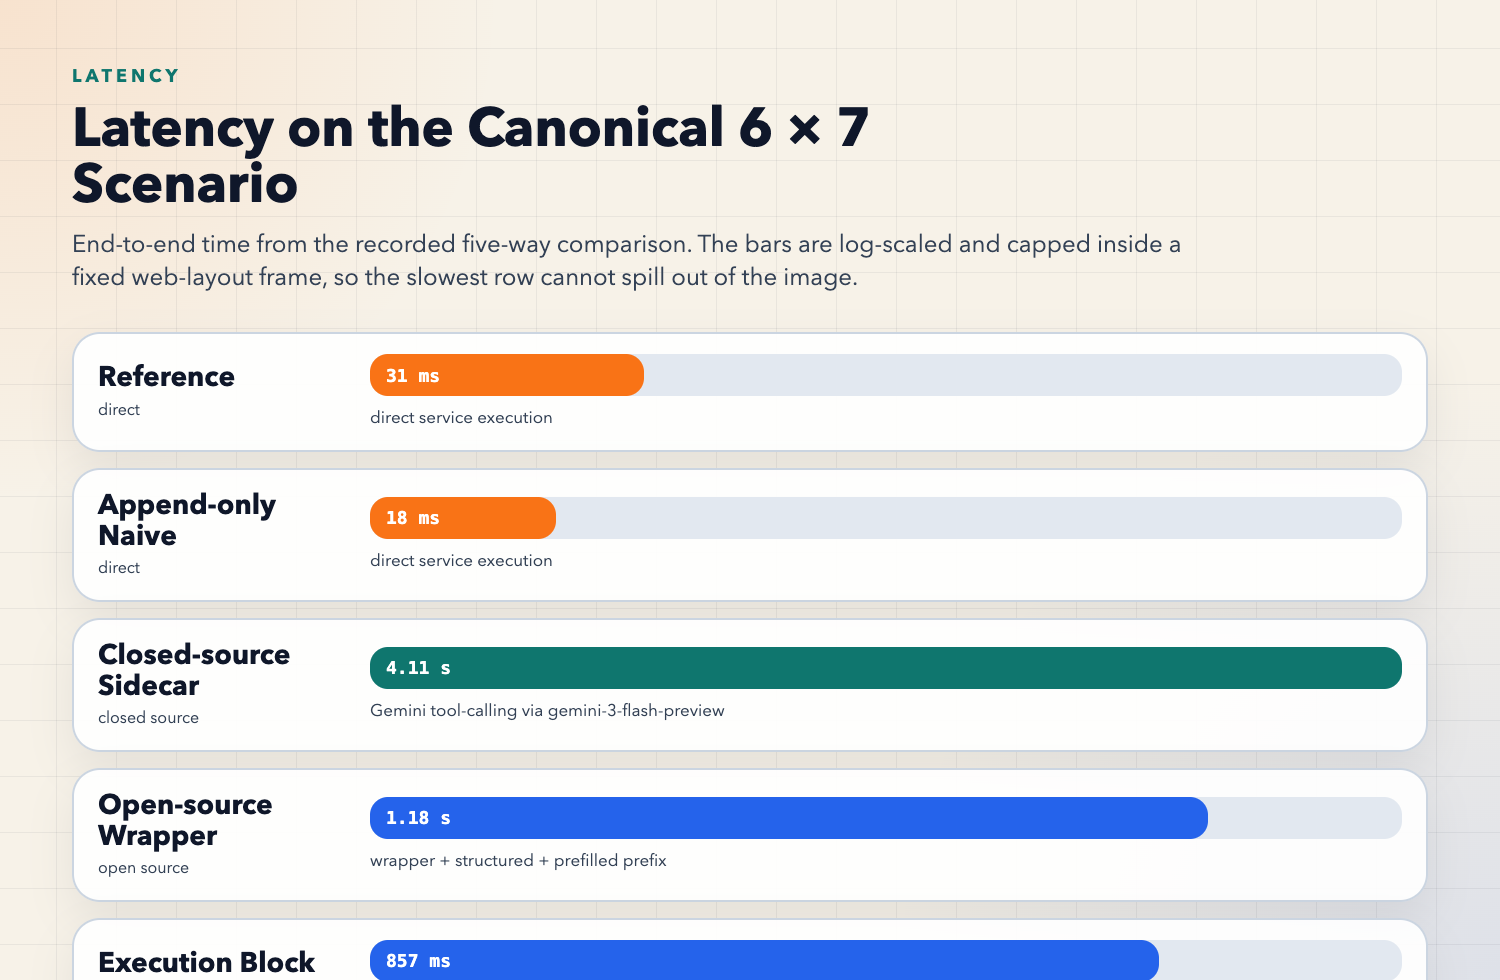
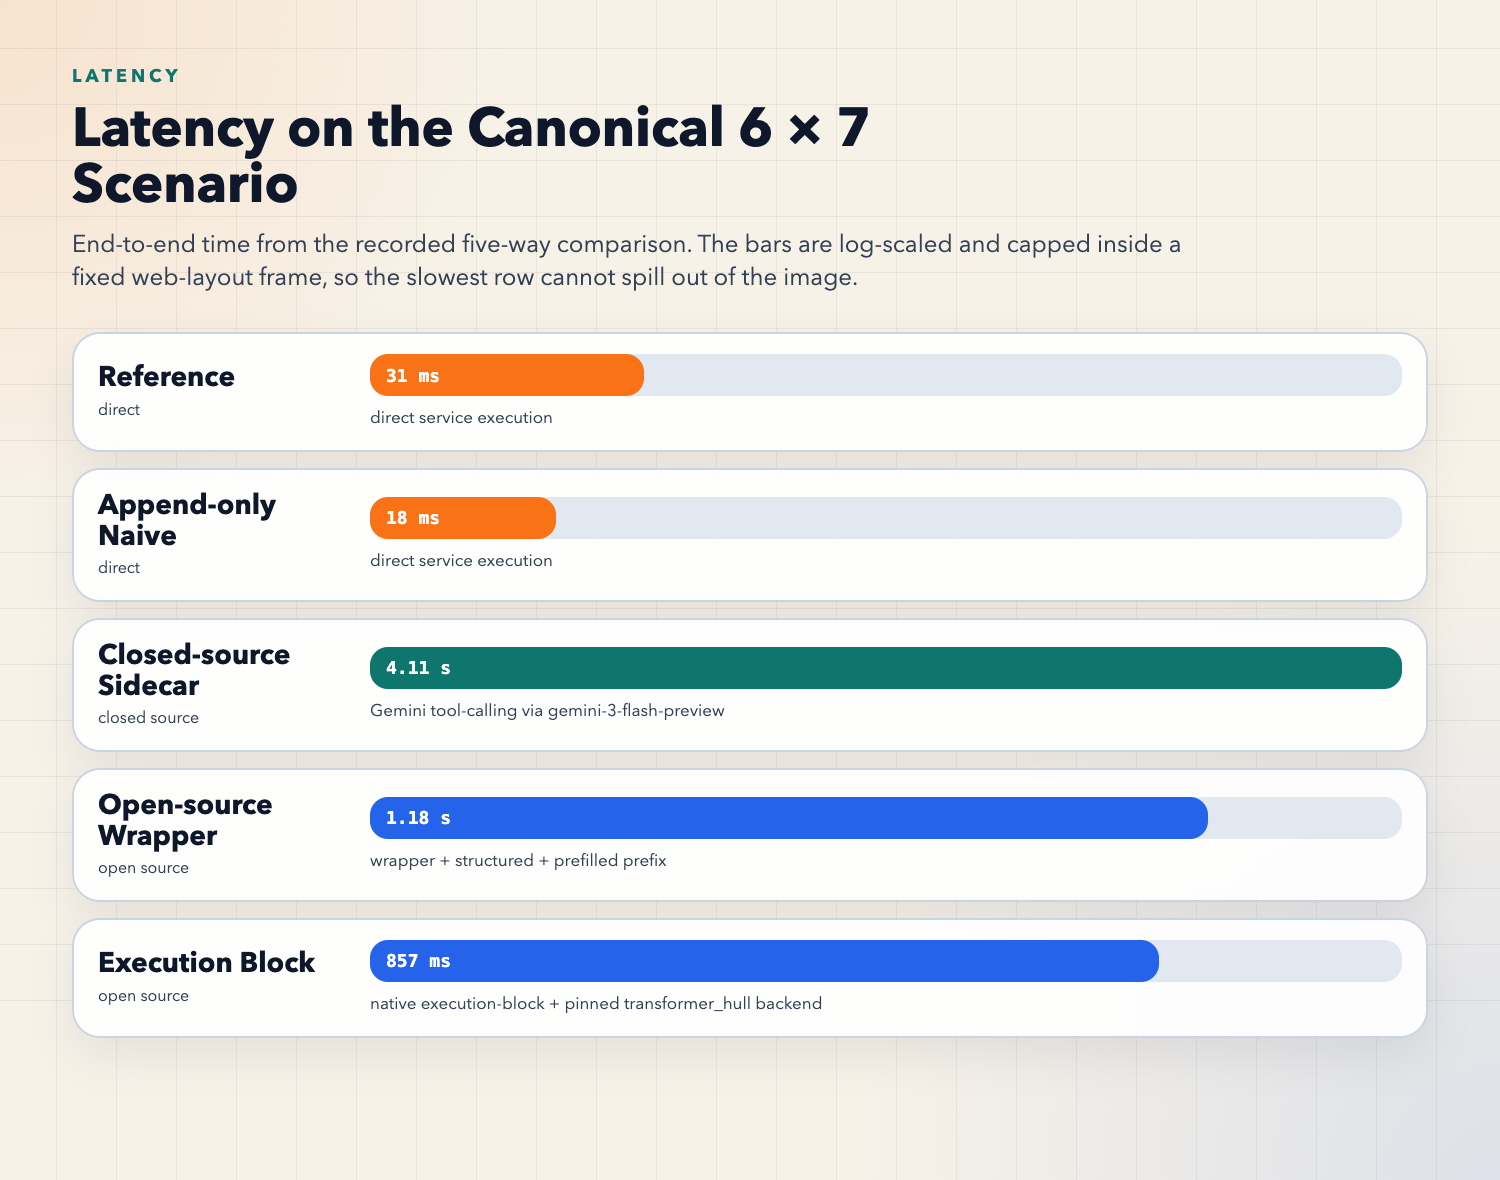
Increase article figure canvas heights

diff --git a/visuals/remotion/src/Root.jsx b/visuals/remotion/src/Root.jsx
@@ -35,7 +35,7 @@ export const RemotionRoot = () => {
         durationInFrames={1}
         fps={30}
         width={1500}
-        height={1280}
+        height={1480}
       />
       <Composition
         id="five-implementation-paths-figure"
@@ -43,7 +43,7 @@ export const RemotionRoot = () => {
         durationInFrames={1}
         fps={30}
         width={1500}
-        height={1260}
+        height={1480}
       />
       <Composition
         id="five-implementation-latency-figure"
@@ -51,7 +51,7 @@ export const RemotionRoot = () => {
         durationInFrames={1}
         fps={30}
         width={1500}
-        height={980}
+        height={1180}
       />
       <Composition
         id="article-example-results-figure"
@@ -59,7 +59,7 @@ export const RemotionRoot = () => {
         durationInFrames={1}
         fps={30}
         width={1500}
-        height={980}
+        height={1120}
       />
       <Composition
         id="sudoku-prefix-validation-figure"
@@ -67,7 +67,7 @@ export const RemotionRoot = () => {
         durationInFrames={1}
         fps={30}
         width={1500}
-        height={1120}
+        height={1260}
       />
       <Composition
         id="five-implementation-validation-matrix-figure"
@@ -75,7 +75,7 @@ export const RemotionRoot = () => {
         durationInFrames={1}
         fps={30}
         width={1560}
-        height={980}
+        height={1100}
       />
     </>
   );
